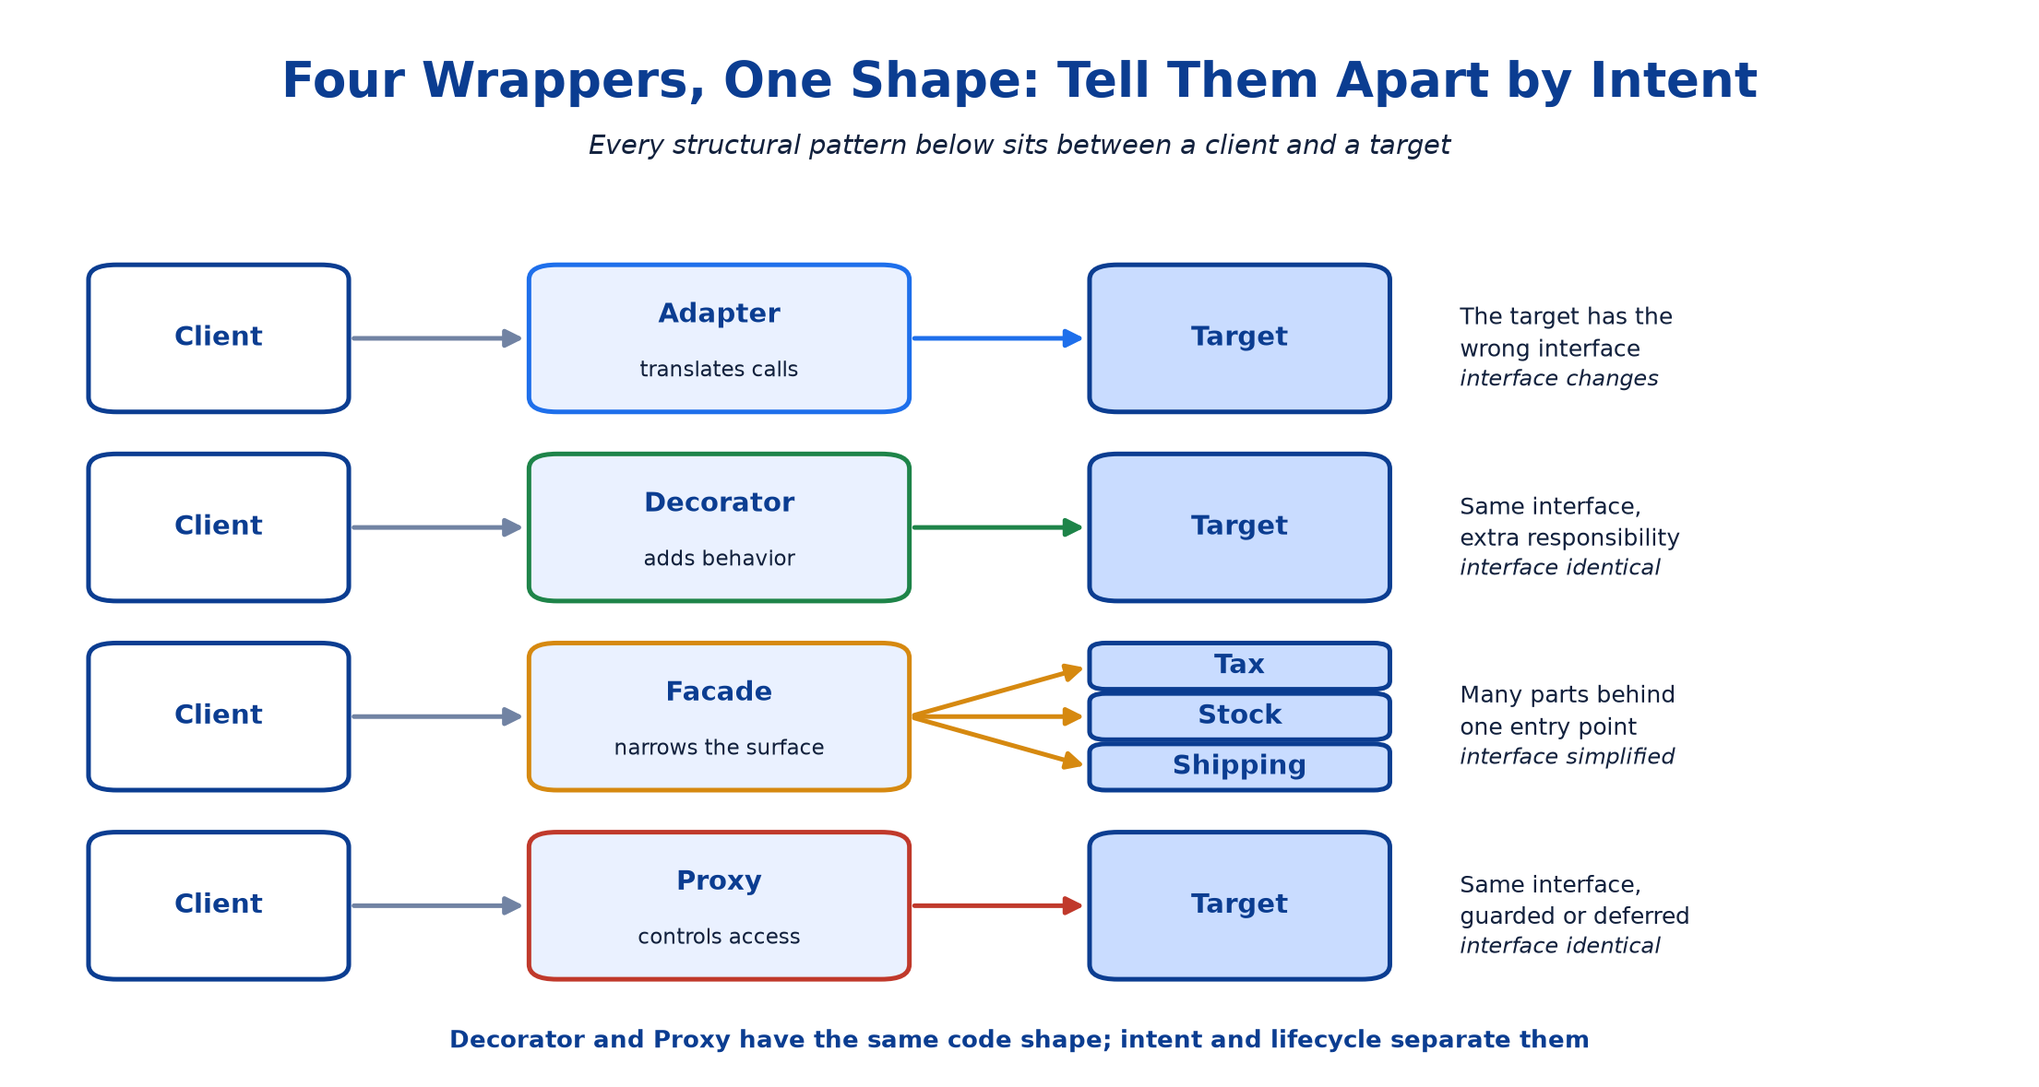
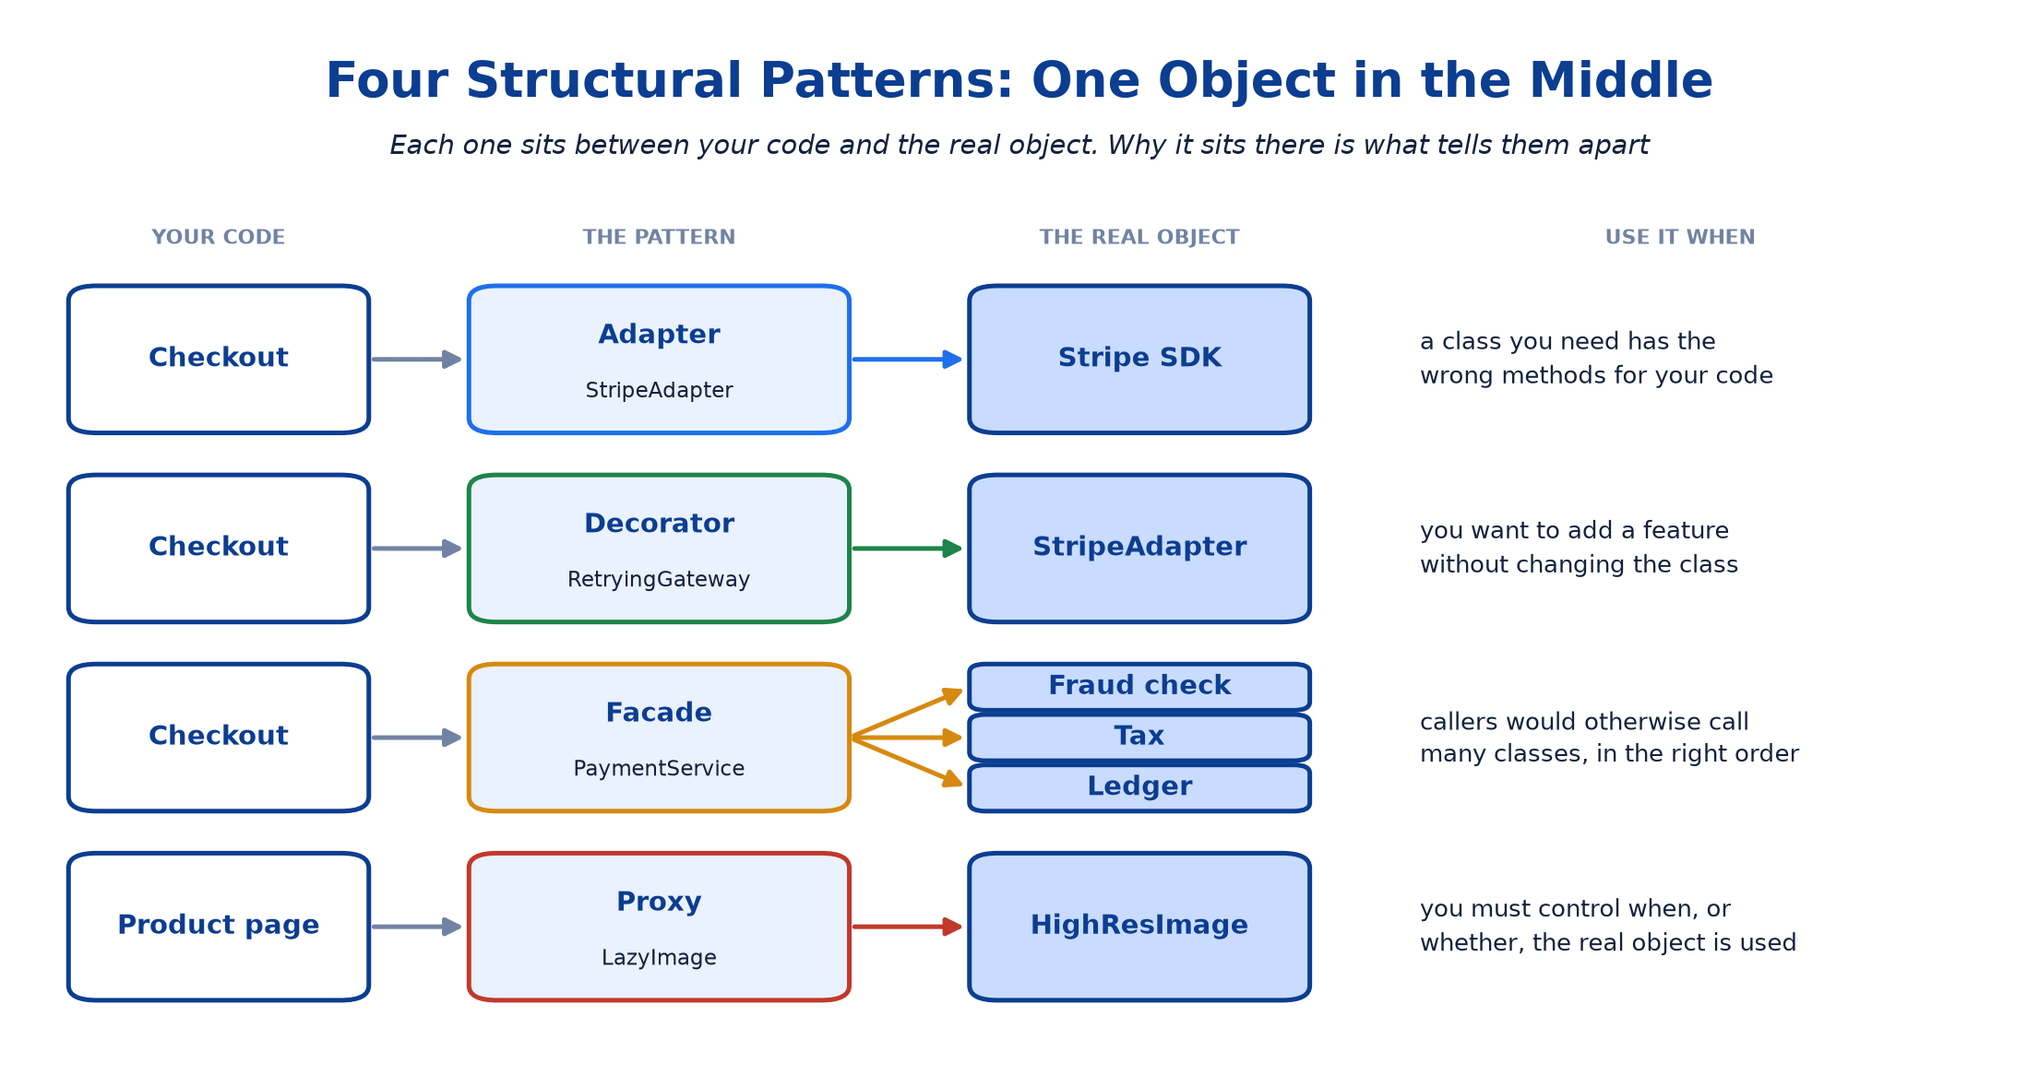
Basics 3: rewrite structural patterns like the creational ones
Each of Adapter, Decorator, Facade, and Proxy now follows what it is ->
when it helps -> code -> watch out, in full sentences, with an everyday
comparison (travel plug, phone case, waiter). Decorator stacking is shown
one layer per line. Proxy gets a lazy product-image example instead of the
abstract LazyReportProxy, plus a plain Proxy-vs-Decorator line. The other
three patterns' table is reworded in plain terms.

Diagram: real classes in every row (Checkout -> StripeAdapter -> Stripe
SDK, ...) under column headers, with a 'use it when' line instead of
client/target placeholders and interface jargon.

Section 8: replace two 'contract tests (as in Topic 02)' references, which
pointed at a box removed from Basics 2.

diff --git a/system-design/_support/tools/plot_topic_03_figures.py b/system-design/_support/tools/plot_topic_03_figures.py
@@ -171,36 +171,35 @@ def builder_vs_telescoping() -> plt.Figure:
 
 def wrapper_family() -> plt.Figure:
     fig, ax = canvas(14, 7.4)
-    heading(ax, "Four Wrappers, One Shape: Tell Them Apart by Intent",
-            "Every structural pattern below sits between a client and a target")
+    heading(ax, "Four Structural Patterns: One Object in the Middle",
+            "Each one sits between your code and the real object. Why it sits there is what tells them apart")
+    for x, label in ((10, "YOUR CODE"), (32, "THE PATTERN"), (56, "THE REAL OBJECT"),
+                     (83, "USE IT WHEN")):
+        ax.text(x, 79, label, ha="center", va="center", fontsize=8, fontweight="bold", color=GREY)
     rows = [
-        (63, "Adapter", "translates calls", "The target has the\nwrong interface",
-         "interface changes", BLUE),
-        (45, "Decorator", "adds behavior", "Same interface,\nextra responsibility",
-         "interface identical", GREEN),
-        (27, "Facade", "narrows the surface", "Many parts behind\none entry point",
-         "interface simplified", AMBER),
-        (9, "Proxy", "controls access", "Same interface,\nguarded or deferred",
-         "interface identical", RED),
+        (61, "Checkout", "Adapter", "StripeAdapter", ["Stripe SDK"],
+         "a class you need has the\nwrong methods for your code", BLUE),
+        (43, "Checkout", "Decorator", "RetryingGateway", ["StripeAdapter"],
+         "you want to add a feature\nwithout changing the class", GREEN),
+        (25, "Checkout", "Facade", "PaymentService", ["Fraud check", "Tax", "Ledger"],
+         "callers would otherwise call\nmany classes, in the right order", AMBER),
+        (7, "Product page", "Proxy", "LazyImage", ["HighResImage"],
+         "you must control when, or\nwhether, the real object is used", RED),
     ]
-    for y, name, verb, purpose, note, color in rows:
-        box(ax, 4, y, 12, 13, "Client", face=WHITE, edge=NAVY)
-        box(ax, 26, y, 18, 13, name, verb, face=PALE, edge=color)
-        arrow(ax, (16.5, y + 6.5), (25.5, y + 6.5), color=GREY)
-        if name == "Facade":
-            for offset, part in enumerate(["Tax", "Stock", "Shipping"]):
-                part_y = y + 9.6 - offset * 4.8
-                box(ax, 54, part_y, 14, 3.4, part, face=MIST, edge=NAVY, radius=0.8)
-                arrow(ax, (44.5, y + 6.5), (53.5, part_y + 1.7), color=color)
+    for y, caller, name, example, targets, use_when, color in rows:
+        box(ax, 3, y, 14, 13, caller, face=WHITE, edge=NAVY)
+        box(ax, 23, y, 18, 13, name, example, face=PALE, edge=color)
+        arrow(ax, (17.5, y + 6.5), (22.5, y + 6.5), color=GREY)
+        if len(targets) == 1:
+            box(ax, 48, y, 16, 13, targets[0], face=MIST, edge=NAVY)
+            arrow(ax, (41.5, y + 6.5), (47.5, y + 6.5), color=color)
         else:
-            box(ax, 54, y, 14, 13, "Target", face=MIST, edge=NAVY)
-            arrow(ax, (44.5, y + 6.5), (53.5, y + 6.5), color=color)
-        ax.text(72, y + 10, purpose, ha="left", va="top", fontsize=9,
+            for offset, part in enumerate(targets):
+                part_y = y + 9.6 - offset * 4.8
+                box(ax, 48, part_y, 16, 3.4, part, face=MIST, edge=NAVY, radius=0.8)
+                arrow(ax, (41.5, y + 6.5), (47.5, part_y + 1.7), color=color)
+        ax.text(70, y + 6.5, use_when, ha="left", va="center", fontsize=9.5,
                 color=INK, linespacing=1.4)
-        ax.text(72, y + 1.5, note, ha="left", va="bottom", fontsize=8.5,
-                color=INK, style="italic")
-    ax.text(50, 2, "Decorator and Proxy have the same code shape; intent and lifecycle separate them",
-            ha="center", fontsize=9.5, fontweight="bold", color=NAVY)
     return fig
 
 

diff --git a/system-design/basics/03_LLD_Creational_And_Structural_Design_Patterns.md b/system-design/basics/03_LLD_Creational_And_Structural_Design_Patterns.md
@@ -330,89 +330,118 @@ Now the dependency is visible, and a test can simply pass in a fake `Config`. Sp
 
 ## 4. Structural patterns
 
-![Adapter, Decorator, Facade, and Proxy each sit between a client and a target](assets/topic-03/wrapper_family.png)
+![Adapter, Decorator, Facade, and Proxy, each shown between your code and the real object](assets/topic-03/wrapper_family.png)
 
-All four main structural patterns put an object between a client and a target. They differ only in **intent**, so in an interview, always say *why* the wrapper exists, not just what it is called.
+Structural patterns are about how objects fit together. The four main ones all work the same way: they put one object *between* your code and the real object it uses. What makes them different is *why* the object in the middle is there, so in an interview, always give the reason, not just the name.
 
-### Adapter: make a foreign interface fit
+### Adapter: make a class fit the interface your code expects
 
-> Convert an existing interface into the one your code expects.
+**What it is:** an adapter sits between your code and a class whose methods do not match what your code expects, and translates every call from one to the other. It works like a travel plug adapter: neither the plug nor the socket changes, and the adapter makes them fit.
+
+**When it helps.** Checkout expects a `PaymentGateway` with a `charge(request)` method. Stripe's SDK has its own classes, its own method names, and its own errors, and you cannot change Stripe's code. So you write an adapter that implements your interface by calling Stripe:
 
 ```java
-final class StripeAdapter implements PaymentGateway {          // our contract
-    private final StripeClient stripe;                         // their SDK (simplified here)
+class StripeAdapter implements PaymentGateway {         // your interface on the outside...
+    private final StripeClient stripe;                  // ...Stripe's SDK on the inside
 
     public ChargeResult charge(ChargeRequest request) {
         try {
-            StripeCharge raw = stripe.createCharge(request.amountInMinorUnits(), request.currency());
-            return ChargeResult.approved(raw.id());            // translate data...
+            StripeCharge charge = stripe.createCharge(request.amountInCents(), request.currency());
+            return ChargeResult.approved(charge.id());          // translate Stripe's answer into yours
         } catch (StripeCardException e) {
-            return ChargeResult.declined(e.declineCode());     // ...and translate errors
+            return ChargeResult.declined(e.getMessage());       // translate Stripe's errors too
         }
     }
 }
 ```
 
-Adapter is the standard defence at a third-party boundary: vendor types stop at the adapter and never leak into domain code, so swapping providers touches one class. **Translate errors as carefully as data.** An adapter that reports a provider failure as success breaks every caller above it.
+The rest of your code only ever sees `PaymentGateway`. If Stripe changes its SDK, or you add another provider, only the adapter changes.
 
-### Decorator: add behavior, keep the interface
+**Watch out:** translate errors as carefully as successful results. If the adapter reported a declined card as a success, every class above it would trust the wrong answer.
 
-> Wrap an object to add a responsibility, without changing its interface.
+### Decorator: add a feature without changing the class
+
+**What it is:** a decorator wraps an object and adds one extra feature, such as retrying, logging, or caching, while offering exactly the same methods as the object it wraps. Think of a phone case: the phone works exactly as before, and the case adds protection.
+
+**When it helps.** Suppose payments should be retried when the provider times out. Instead of adding retry code inside `StripeAdapter`, you wrap it in a class that does only the retrying:
 
 ```java
-final class RetryingGateway implements PaymentGateway {
-    private final PaymentGateway inner;                        // same interface it implements
+class RetryingGateway implements PaymentGateway {     // the same interface as the object it wraps
+    private final PaymentGateway inner;               // the gateway being wrapped
     private final RetryPolicy policy;
 
     public ChargeResult charge(ChargeRequest request) {
-        return policy.execute(() -> inner.charge(request));
+        return policy.execute(() -> inner.charge(request));   // call the inner gateway, retrying temporary failures
     }
 }
 ```
 
-Because a decorator implements the same interface it wraps, decorators **compose**: `new RetryingGateway(new AuditingGateway(adapter))`. Each concern (retry, audit, metrics, caching) stays in its own small class and can be added or removed per wiring, instead of piling flags onto one class.
+Because every decorator has the same interface as the object it wraps, you can stack them, each one adding a single feature:
+
+```java
+PaymentGateway gateway = new StripeAdapter(stripeClient);    // talks to Stripe
+gateway = new AuditingGateway(gateway, auditLog);            // + records every attempt
+gateway = new RetryingGateway(gateway, retryPolicy);         // + retries temporary failures
+```
+
+Checkout receives `gateway` and has no idea how many layers it has. Each feature lives in its own small class, and adding or removing one is a one-line change.
 
 ![The same decorators wrapped in two orders produce different audit trails](assets/topic-03/decorator_ordering.png)
 
-**Order is part of the behavior.** With audit outside retry, audit sees one call and logs the final outcome. With retry outside audit, every attempt passes through audit and gets logged. Neither is wrong, but you must choose deliberately, and say which one you chose and why.
+**Watch out:** the order of the layers changes the behavior. In the stack above, audit sits *inside* retry, so every attempt is recorded: three attempts produce three audit entries. Swap the two lines, and audit sees only the final result. Neither order is wrong, but choose it on purpose and be ready to explain why.
 
-### Facade: one simple entry point
+### Facade: one simple entry point to many classes
 
-> Give callers one simple interface to a subsystem of several parts.
+**What it is:** a facade is one class with a simple method that calls several other classes in the right order, so that callers do not have to. It is like a waiter in a restaurant: you place one order, and the waiter deals with the kitchen, the bar, and the bill.
+
+**When it helps.** Paying for an order takes four steps: a fraud check, the tax calculation, the charge itself, and a record in the ledger. Without a facade, every caller would need to know all of those classes and call them in the right order. With a facade, checkout makes a single call, `paymentService.pay(order)`:
 
 ```java
-final class PaymentService {                     // facade over fraud, tax, gateway, ledger
+class PaymentService {                                         // the facade
     Receipt pay(Order order) {
-        fraudCheck.verify(order);
-        Money total = taxCalculator.totalWithTax(order);
+        fraudCheck.verify(order);                              // 1. stop suspicious orders
+        Money total = taxCalculator.totalWithTax(order);       // 2. work out the total
         ChargeRequest request = ChargeRequest.builder().order(order).amount(total).build();
-        ChargeResult result = gateways.forCountry(order.country()).charge(request);
-        return ledger.record(order, result);
+        ChargeResult result = gateways.forCountry(order.country()).charge(request);   // 3. charge the customer
+        return ledger.record(order, result);                   // 4. record the result
     }
 }
 ```
 
-A facade reduces how many concepts a caller must learn. It **orchestrates**; it should not **decide**. Tax rules belong in the tax calculator, not in the facade. A facade that collects business rules is a god class with a nicer name. It also does not forbid advanced callers from using the subsystem directly.
+**Watch out:** a facade should only *coordinate* the steps; it should not contain business rules. Tax rules belong in the tax calculator, not in `PaymentService`. A facade that keeps collecting rules slowly turns into one huge class that does everything.
 
 ### Proxy: control access to the real object
 
-> Stand in for another object, with the same interface, to control access to it.
+**What it is:** a proxy stands in for the real object, with exactly the same methods, and decides *when* or *whether* the real object is used. The calling code cannot tell the difference.
+
+**When it helps.** A product page shows 100 high-resolution images, but most customers only look at the first few. Loading all 100 from disk up front is slow and wasteful. A proxy loads each image only when it is shown for the first time:
 
 ```java
-final class LazyReportProxy implements Report {
-    private Report real;                         // created only on first use
+class LazyImage implements Image {                 // the proxy: the same interface as the real image
+    private final String fileName;
+    private Image real;                            // not loaded yet
 
-    public byte[] render() {
-        if (real == null) real = new ExpensiveReport();
-        return real.render();
+    LazyImage(String fileName) {
+        this.fileName = fileName;
+    }
+
+    public void show() {
+        if (real == null) {
+            real = new HighResImage(fileName);     // load from disk only the first time
+        }
+        real.show();
     }
 }
 ```
 
-The common variants are **virtual** (create the target lazily), **protection** (check permissions first), **remote** (hide a network call), and **caching**. Proxy and Decorator have identical code shapes; the difference is that a proxy *controls* its target (it may create, guard, or locate it), while a decorator *enhances* a target it was handed.
+Proxies are also used to check permissions before a call, to cache results, and to make a call to another server look like an ordinary method call.
 
-!!! warning "Proxies hide cost"
-    A proxy makes a slow or failing operation look like an ordinary method call. Hibernate's lazy-loading proxies are the classic case: a harmless-looking getter inside a loop triggers one database query per item. And Spring's `@Transactional` works through a proxy, so a method calling another `@Transactional` method **on the same object** skips the proxy, and the transaction rule silently does not apply.
+**Proxy or Decorator?** The code looks almost the same. The difference is the reason it exists: a decorator *adds a feature* to an object it was given, while a proxy *controls access* to the real object, and often creates that object itself.
+
+**Watch out:** a proxy can hide slow work behind what looks like an ordinary method call. Two well-known surprises in Java projects:
+
+- Hibernate loads related data through proxies, so a simple getter inside a loop can quietly run one database query per item.
+- Spring's `@Transactional` works through a proxy. When a method calls another `@Transactional` method *on the same object*, the call skips the proxy, and the transaction setting is silently ignored.
 
 ### The other three structural patterns
 
@@ -420,9 +449,9 @@ These come up less often, but you should recognize them:
 
 | Pattern | What it does | Typical example | Watch out for |
 |---|---|---|---|
-| **Composite** | Treats a single object and a group of objects through the same interface, so trees can be handled recursively. | A cart where a bundle's price is the sum of its items; files and folders. | Operations that only make sense for groups, like adding a child, end up on the shared interface. |
-| **Bridge** | Separates an abstraction from its implementation, so each can vary on its own. | Notification types (alert, digest) × delivery channels (email, SMS), without one class per combination. | Two hierarchies to understand; only worth it when both dimensions really vary. |
-| **Flyweight** | Shares common, immutable state between many small objects to save memory. | Characters in a text editor; `Integer.valueOf` reusing cached small values. | Shared state must be immutable, and callers must pass in the part that varies. |
+| **Composite** | Lets you treat a single item and a group of items in the same way. | A shopping cart where a bundle's price is the sum of its items; files and folders. | Some actions only make sense for groups, such as "add an item to this bundle". |
+| **Bridge** | Splits one class hierarchy into two independent ones that can be combined freely. | Notification types (alert, digest) combined with channels (email, SMS), without one class per combination. | There are two hierarchies to learn, so it is only worth it when both really change. |
+| **Flyweight** | Lets many small objects share the same data, to save memory. | The letters in a text editor share font data; `Integer.valueOf` reuses objects for small numbers. | The shared data must never change, or every object sharing it changes too. |
 
 ---
 
@@ -580,13 +609,13 @@ GatewayRegistry gateways = new GatewayRegistry(Map.of(US, stripe, IN, stripe, DE
 
 Three details are worth saying out loud. `withPolicies` builds every chain in one place, so the wrapper order is written down once instead of copied per provider. The registry copies its map and fails loudly for an unknown country, so a missing entry is caught on the first request rather than causing a `NullPointerException` deep inside checkout. And there is no Proxy here: nothing controls access or lifecycle, and adding one just to use the name would be pattern worship.
 
-**Failure path.** A timeout from Stripe comes back from the adapter as a retryable result. `AuditingGateway` records it, and `RetryingGateway` tries again with the **same idempotency key**, so Stripe treats any duplicate as the same charge. A card decline is permanent: it is audited once and returned immediately. If an adapter ever reported a decline as success, every wrapper above it would faithfully pass on the wrong answer. The chain is only as correct as its lowest link, which is why every adapter must pass the same contract tests (as in [Topic 02](02_LLD_Object_Oriented_Principles_And_Clean_Code.md)).
+**Failure path.** A timeout from Stripe comes back from the adapter as a retryable result. `AuditingGateway` records it, and `RetryingGateway` tries again with the **same idempotency key**, so Stripe treats any duplicate as the same charge. A card decline is permanent: it is audited once and returned immediately. If an adapter ever reported a decline as success, every wrapper above it would faithfully pass on the wrong answer. The chain is only as correct as its lowest link, which is why every adapter should be tested against the same list of expected results, such as "a timeout is retryable" and "a decline is permanent".
 
 ### Change walkthrough
 
 | Change request | What you edit | What you add | What stays untouched |
 |---|---|---|---|
-| Add Adyen for German customers. | One registry entry in the composition root. | An `AdyenAdapter` class that passes the contract tests. | Checkout, the facade, both decorators, and the Stripe adapter. |
+| Add Adyen for German customers. | One registry entry in the composition root. | An `AdyenAdapter` class, tested against the same expected results as the Stripe one. | Checkout, the facade, both decorators, and the Stripe adapter. |
 | Add a circuit breaker for a flaky provider. | The `withPolicies` wiring. | A `CircuitBreakingGateway` decorator. | Every adapter and the facade. |
 | Upgrade to a new Stripe SDK version. | `StripeAdapter` only. | Nothing. | Everything else. |
 | Record latency metrics per provider. | The `withPolicies` wiring. | A `MetricsGateway` decorator. | Every adapter and the facade. |
